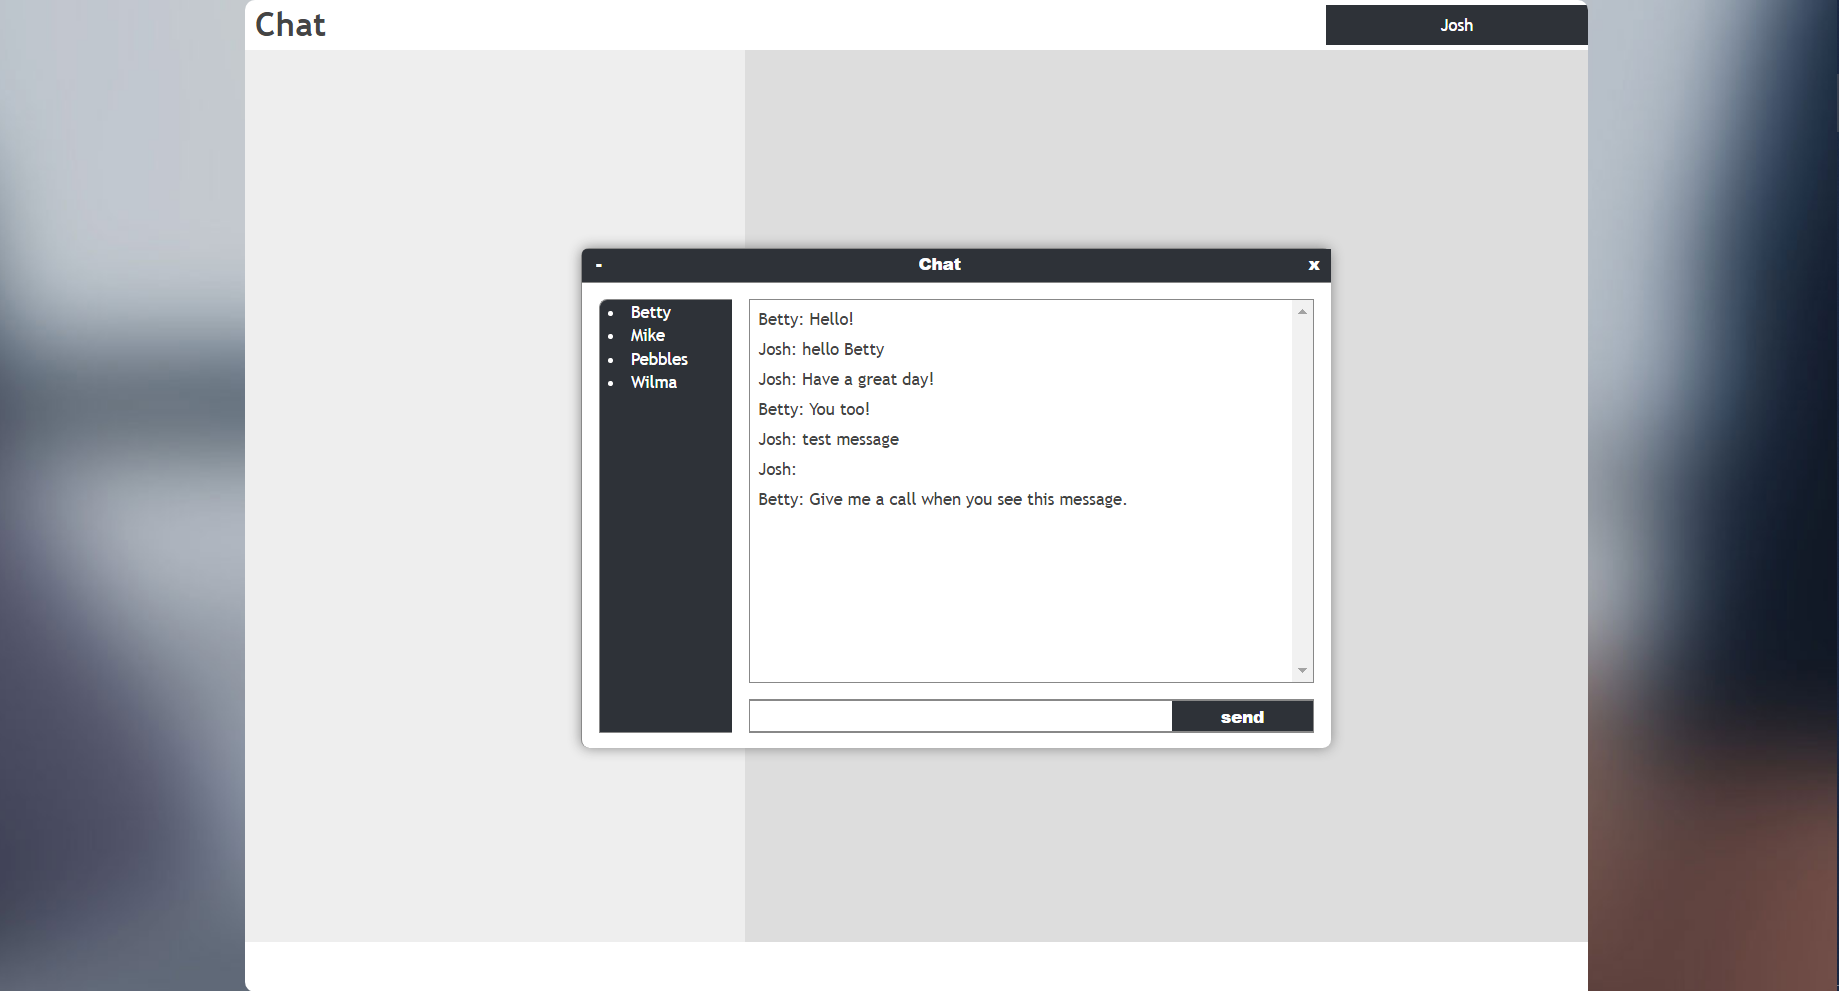
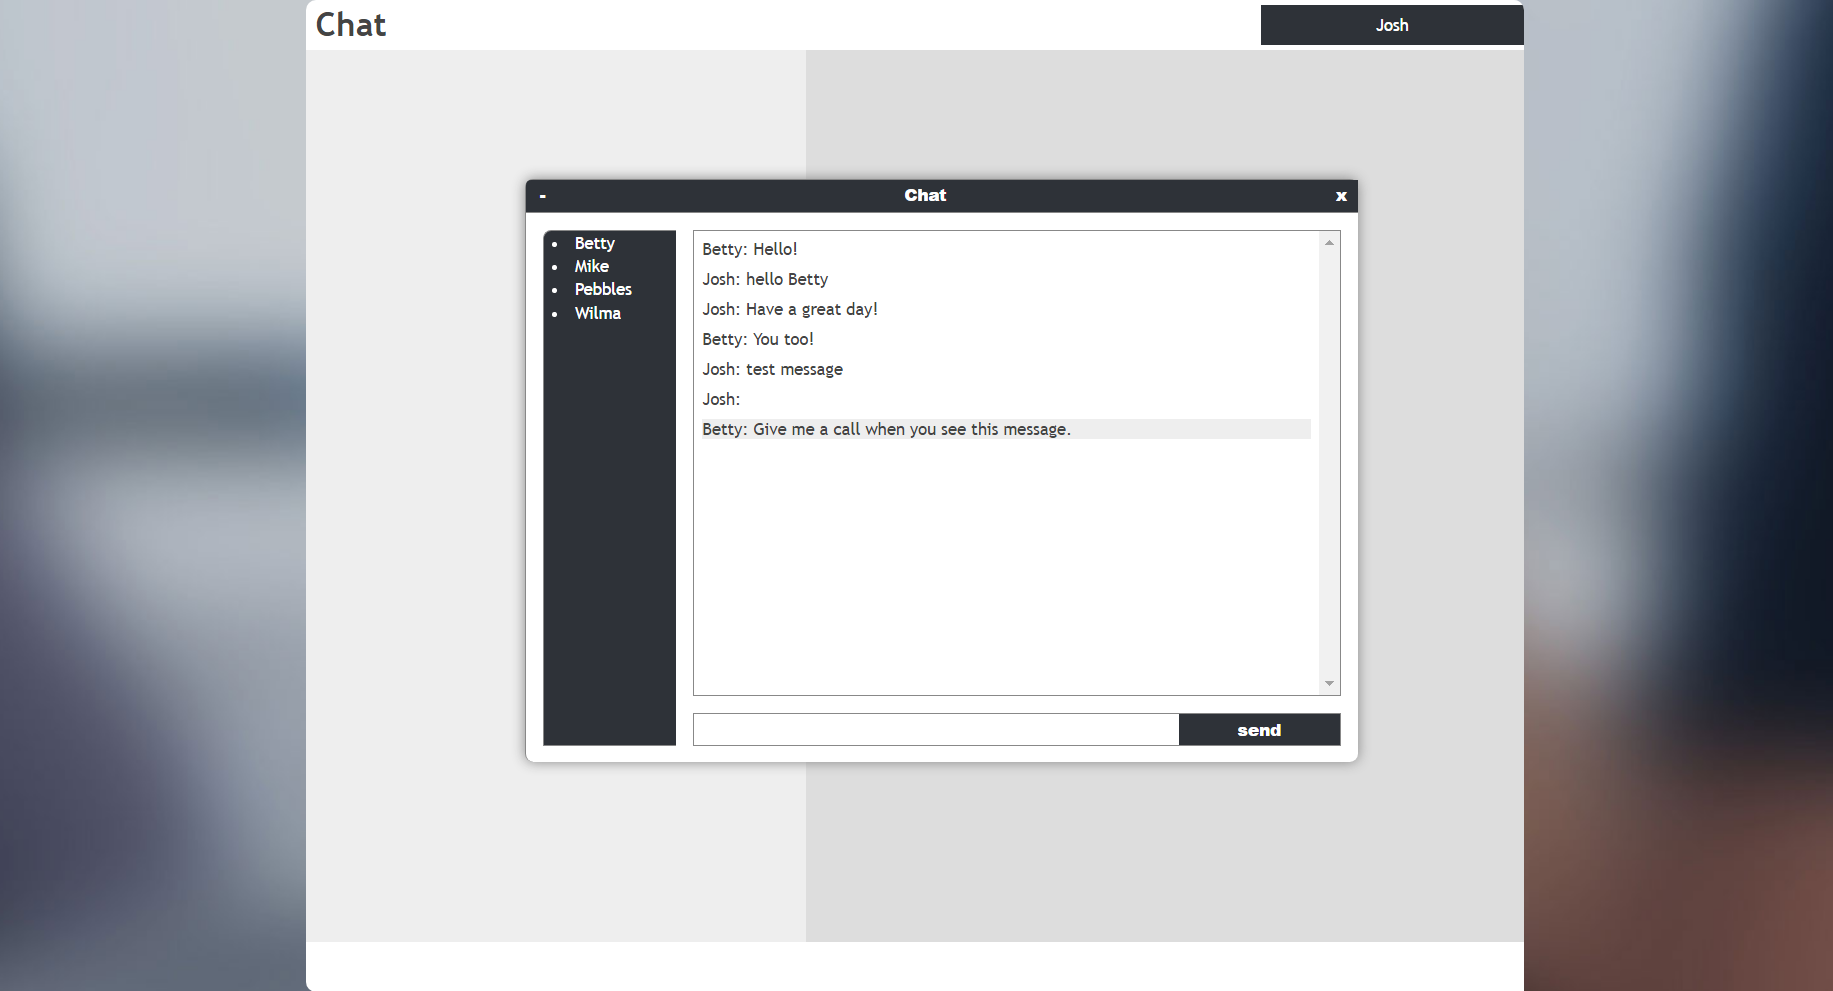
Final version after adding simple css style

diff --git a/src/constants.js b/src/constants.js
@@ -3,7 +3,7 @@ export const configMap = {
 
     slider_open_time: 250,
     slider_close_time: 250,
-    slider_opened_em: 30,
+    slider_opened_em: 35,
     slider_closed_em: 2,
     slider_opened_title: 'Click to close',
     slider_closed_title: 'Click to open',

diff --git a/src/App.js b/src/App.js
@@ -13,7 +13,7 @@ const App = () => {
   const [islogin, setIsLongin] = useState(false);
   const [loginUser, setLoginUser] = useState(null); //user input username
  
-
+// <Main />
 
   return (
     <div id='spa'>

diff --git a/src/css/spa.chat.css b/src/css/spa.chat.css
@@ -8,10 +8,10 @@
 
 .spa-chat {
   position: absolute;
-  top: 25%;
-  left: 25%;
+  top: 18%;
+  left: 18%;
  
-  width: 45em;
+  width: 50em;
   height: 2em;
   background: #fff;
   border-radius: 0.5em;

diff --git a/README.md b/README.md
@@ -29,11 +29,14 @@
 ![login_form](public/imgs/Step4_Seperate_Login_and_chat.png?raw=true "login_form")
 
 ### Step6: To do: refine the view.
-- Now the basic modal and view of this simple chat app is build.
+- Now the basic modal and view of this simple chat app is finished.
+- Adding some simple css.
+![final_login_page](public/imgs/Step6_Login_page.png?raw=true "final_login_page")
+![final_chat_app_page](public/imgs/Step6_Chat_page.png?raw=true "final_chat_app_page")
 
 ### To do 
 - [x] manipulate data to render messages.
 - [x] add json server and use Axios for fetching.
-- [ ] right now the data and handlers are pass layers by layers, better to use Redux.
-- [ ] the original example in the book is more like a chat room, I want to change it to a Wechat style.
+- [ ] right now the data and handlers are pass layers by layers, change to Redux.
+- [X] the original example in the book is more like a chat room, change it to a modern style.
 - [ ] add routes.
